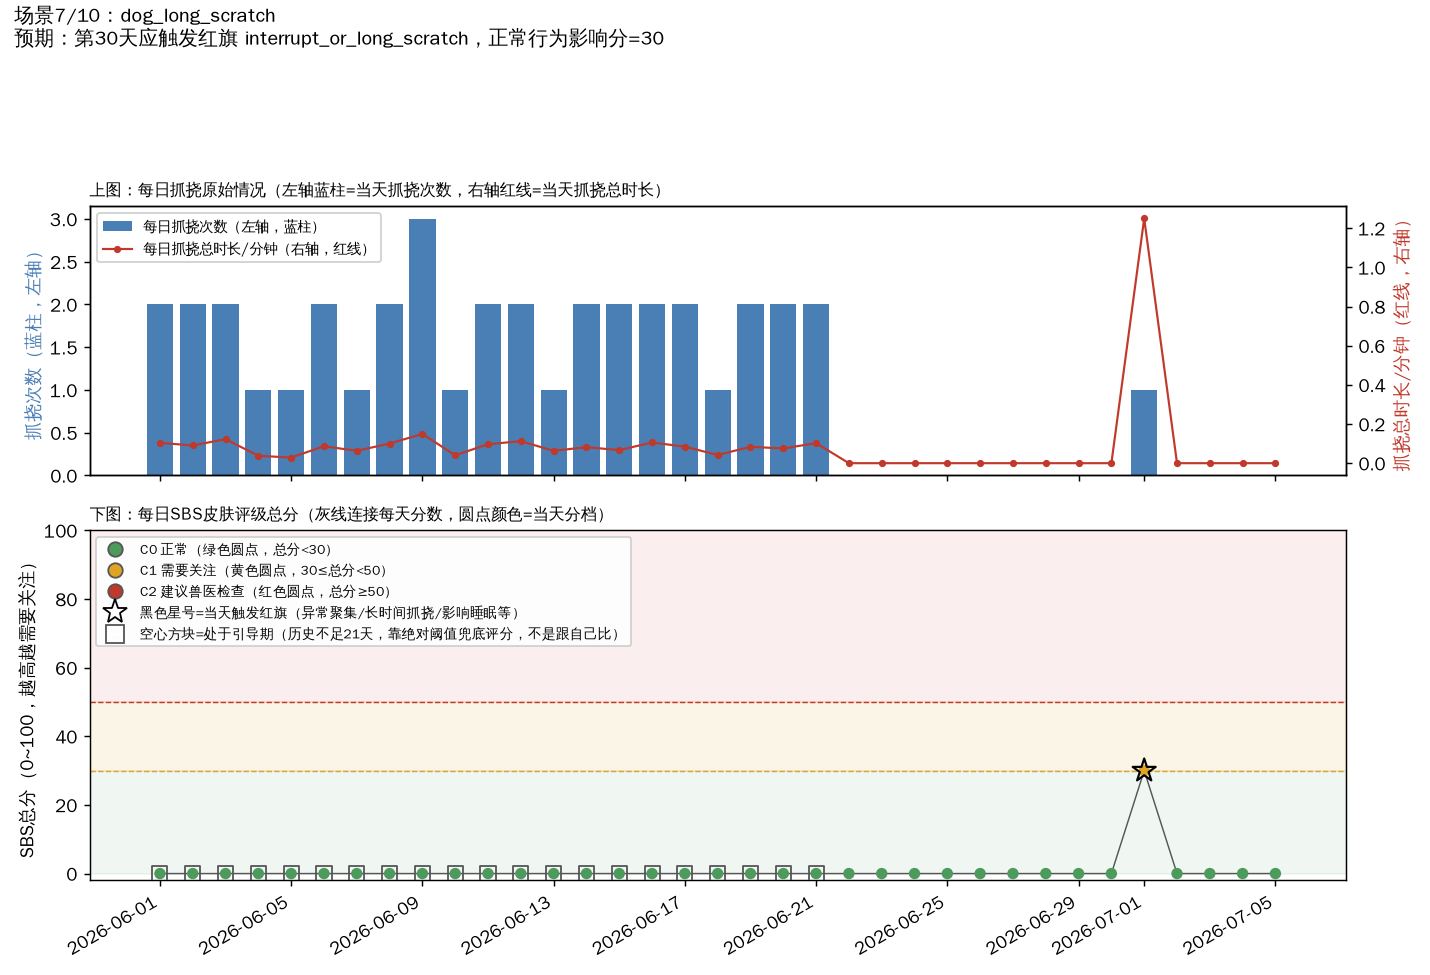
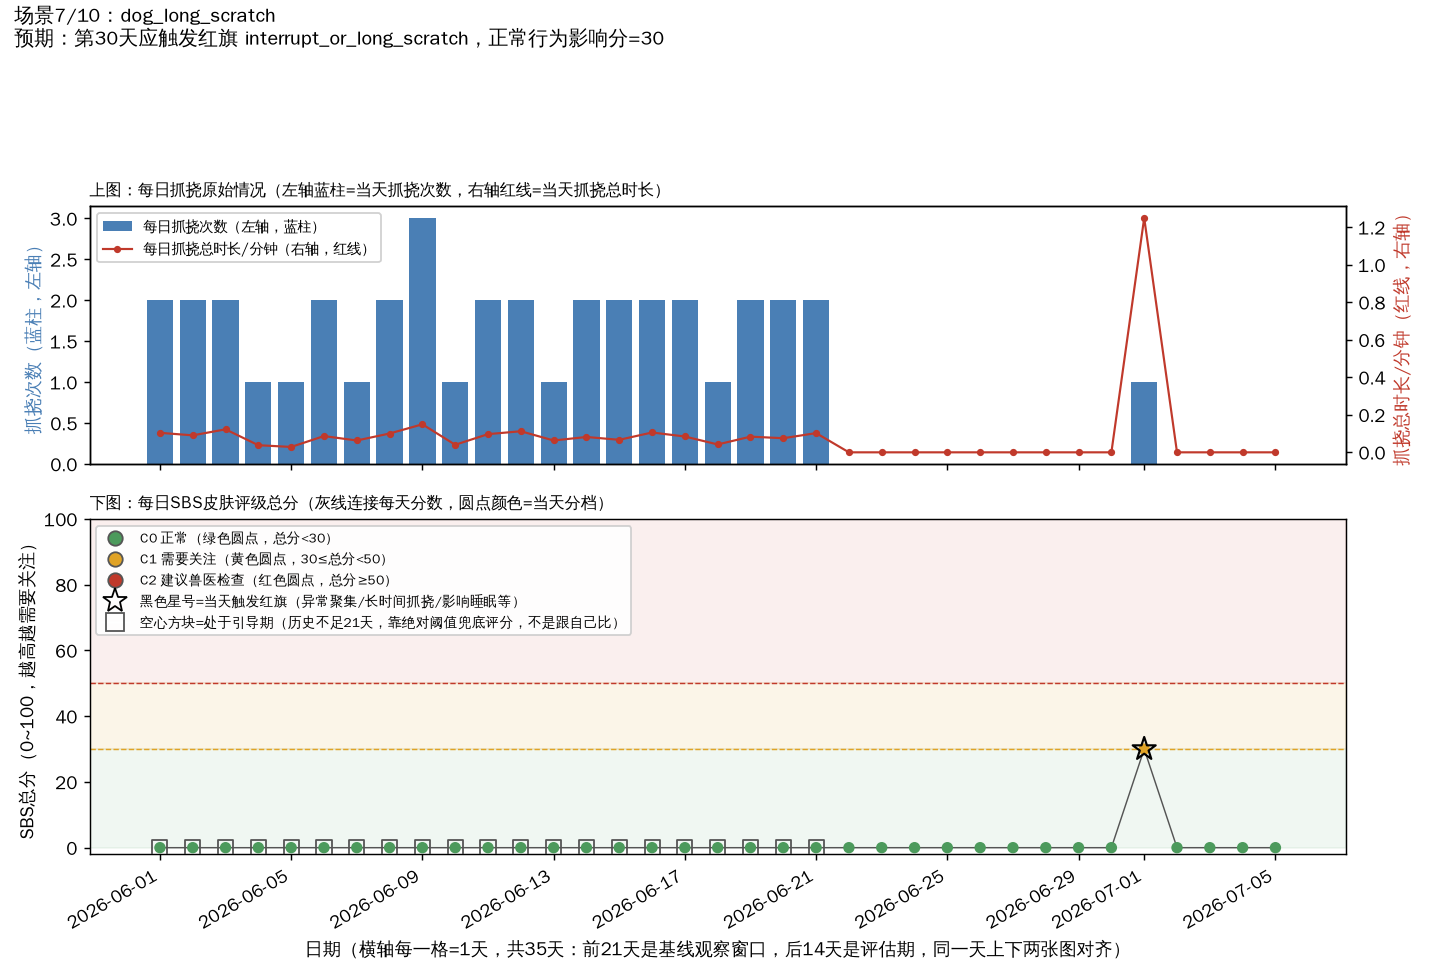
docs: 场景画廊图表补充x轴说明
x轴没有标注单位，容易看成"一天内的时间段"；现在下图加xlabel明确
"每一格=1天，共35天，前21天基线窗口/后14天评估期"，md文档名词解释
里也补一条同样的说明。

diff --git a/skin_health/code/plot_scenario_gallery.py b/skin_health/code/plot_scenario_gallery.py
@@ -98,6 +98,8 @@ def plot_one(idx, pet_id, daily_df, result_df, expect):
                markersize=10, label="空心方块=处于引导期（历史不足21天，靠绝对阈值兜底评分，不是跟自己比）"),
     ]
     ax2.legend(handles=legend_handles, loc="upper left", fontsize=7.5, framealpha=0.9)
+    ax2.set_xlabel(f"日期（横轴每一格=1天，共{len(d)}天：前21天是基线观察窗口，"
+                   "后14天是评估期，同一天上下两张图对齐）")
     fig.suptitle(f"场景{idx}/{len(SCENARIOS)}：{pet_id}\n预期：{expect}",
                  fontsize=11, x=0.01, ha="left", y=0.995)
     fig.autofmt_xdate(rotation=30)
@@ -142,6 +144,10 @@ def main():
         "- **引导期（bootstrap_mode）**：这只狗历史数据还不满21天，没法算出\"跟自己比\"的"
         "个人基线，这期间改用文献（Whistle FIT）给的固定秒数阈值兜底评分，图上标空心方块，"
         "跟基线建立后的正常评分是两套逻辑，不能直接比较分数高低。",
+        "",
+        "- **横轴（日期）**：每一格代表**一整天**（不是一天内的时间段），从合成数据第1天"
+        "（2026-06-01）到第35天，前21天是给算法建立个人基线用的观察窗口，后14天是真正"
+        "评估/触发问题的观察期，具体每个场景的\"异常\"通常安排在后14天里发生。",
         "",
         "每张图分两部分：**上图**是当天实际发生的抓挠情况（原始数据，蓝柱=次数，红线=总时长），"
         "**下图**是算法根据上图数据算出来的SBS评分结果（total/tier），两张图上下对齐、"

diff --git a/skin_health/docs/scenario_gallery.md b/skin_health/docs/scenario_gallery.md
@@ -9,6 +9,8 @@
 - **红旗（red flag）**：不管总分多少，只要触发了预定义的严重信号（比如单次连续抓挠超过1分钟、1小时内聚集抓挠≥3次、影响夜间睡眠等），就在图上标黑色星号，代表这天有值得直接关注的具体行为，不是单纯靠算分数判断。
 - **引导期（bootstrap_mode）**：这只狗历史数据还不满21天，没法算出"跟自己比"的个人基线，这期间改用文献（Whistle FIT）给的固定秒数阈值兜底评分，图上标空心方块，跟基线建立后的正常评分是两套逻辑，不能直接比较分数高低。
 
+- **横轴（日期）**：每一格代表**一整天**（不是一天内的时间段），从合成数据第1天（2026-06-01）到第35天，前21天是给算法建立个人基线用的观察窗口，后14天是真正评估/触发问题的观察期，具体每个场景的"异常"通常安排在后14天里发生。
+
 每张图分两部分：**上图**是当天实际发生的抓挠情况（原始数据，蓝柱=次数，红线=总时长），**下图**是算法根据上图数据算出来的SBS评分结果（total/tier），两张图上下对齐、同一天可以直接对照看"当天发生了什么 → 算法打了多少分"。每张图内部都带完整图例，不需要再回来看这段文字。
 
 ## 场景1/10：dog_stable_low
